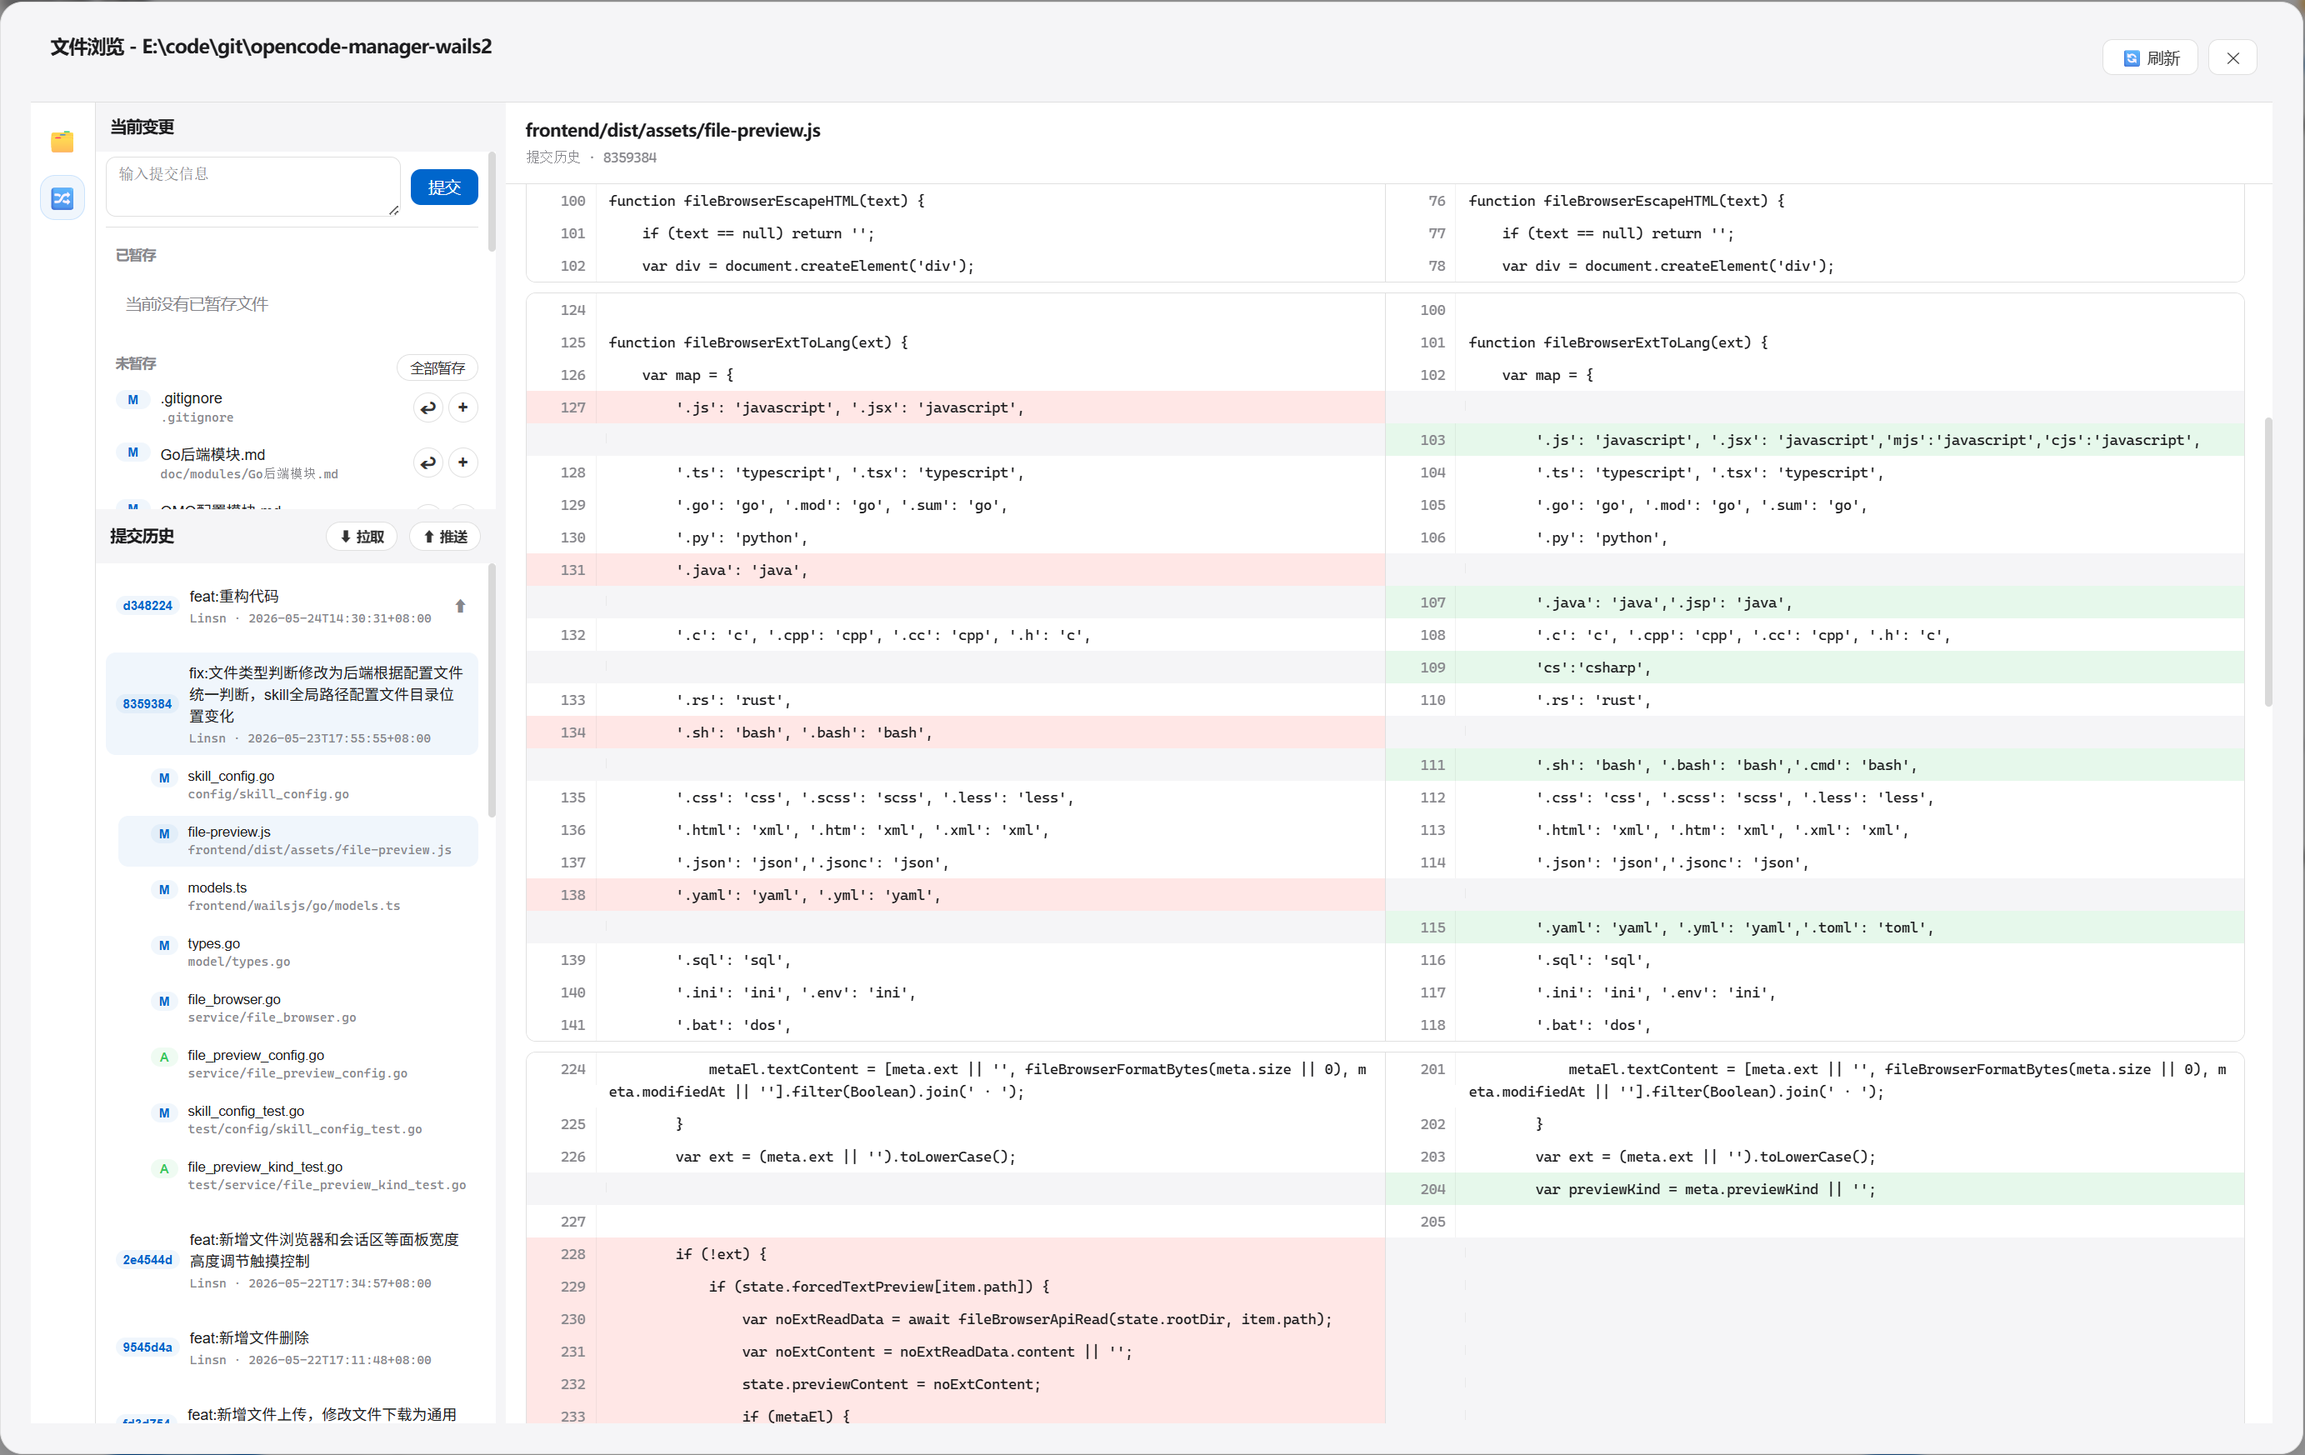
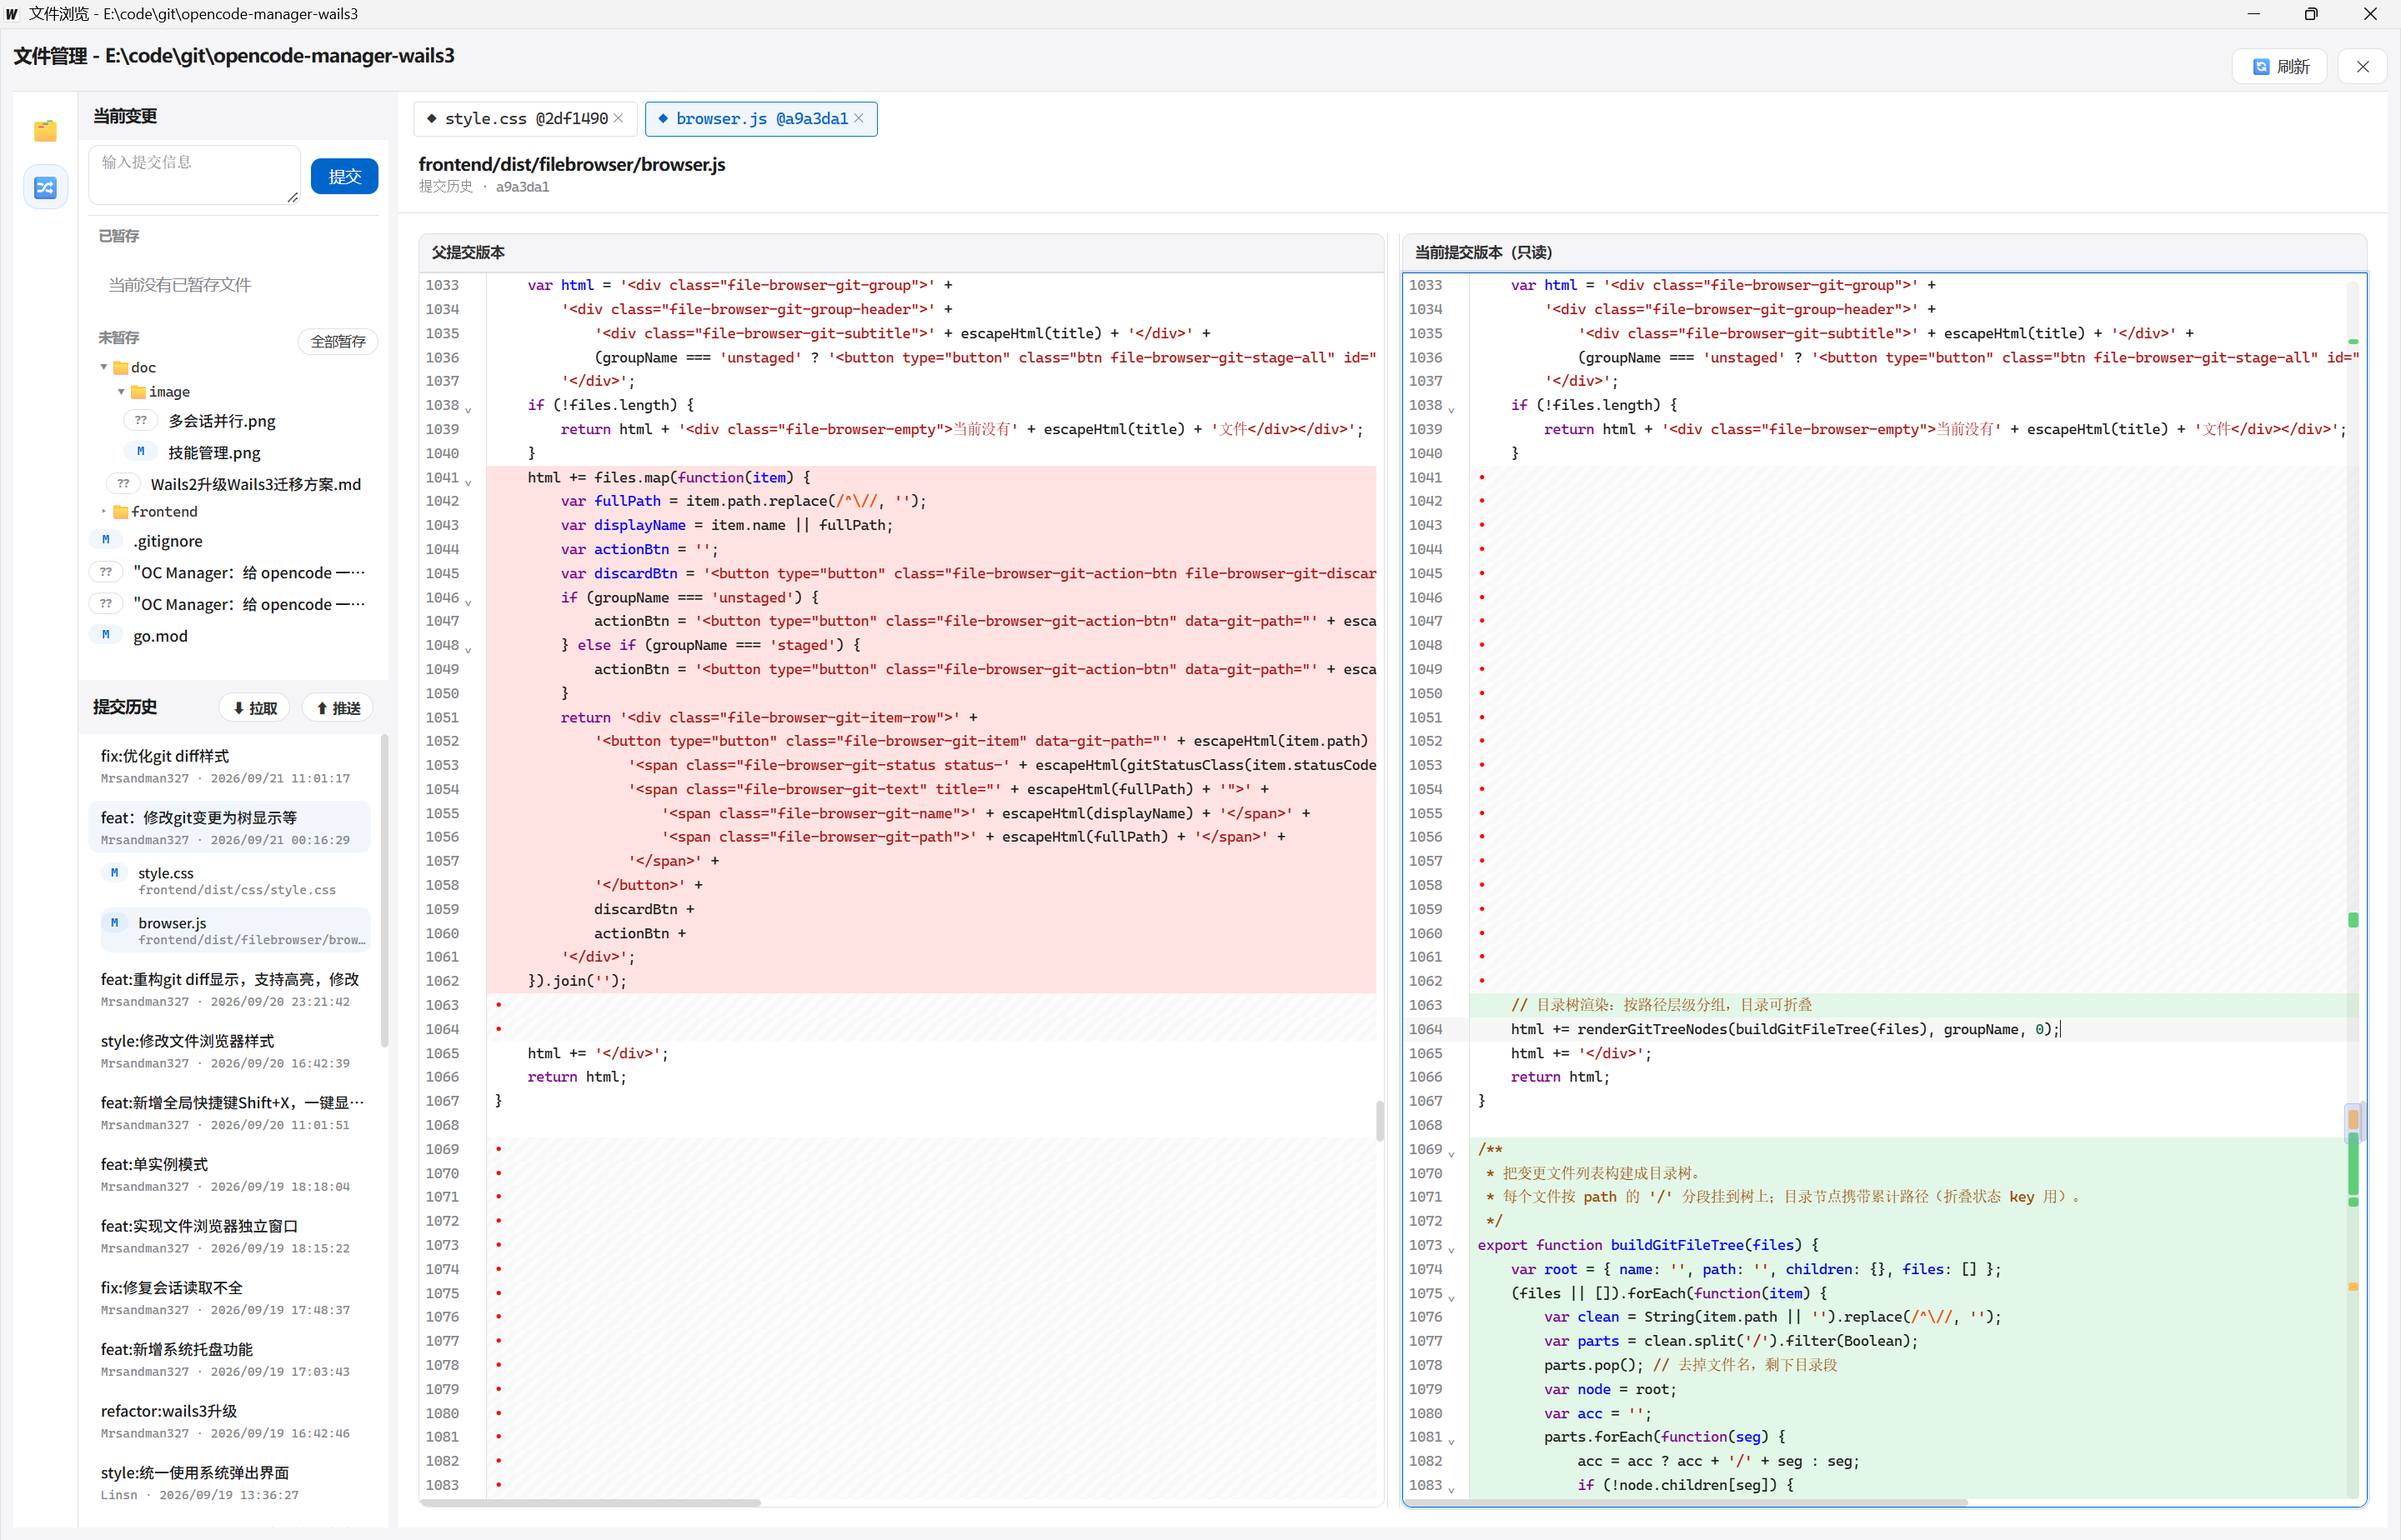
doc:更新readme

diff --git a/README.md b/README.md
@@ -4,7 +4,7 @@
 
 <p align="center">
   <img src="https://img.shields.io/badge/Go-1.25+-00ADD8?logo=go" />
-  <img src="https://img.shields.io/badge/Wails-v2.12-DF0000?logo=wails" />
+  <img src="https://img.shields.io/badge/Wails-v3.0.0--beta.23-DF0000?logo=wails" />
   <img src="https://img.shields.io/badge/三端-Windows%20|%20Web%20|%20Mobile-0066cc" />
   <img src="https://img.shields.io/badge/build-passing-brightgreen" />
 </p>
@@ -98,13 +98,17 @@ agent / category 粒度的模型映射，方案**导出·导入·入库·应用*
 
 | 🚀 功能 | 💡 说明 |
 |----------|---------|
+| **全局快捷键** | `Shift+X` 一键隐藏 / 显示主界面（与托盘行为一致）|
+| **系统托盘** | 点按托盘图标切换显示 / 隐藏，右键菜单快捷操作，关闭窗口即驻留托盘 |
+| **单实例运行** | 二次启动自动激活已有窗口，不重复开进程 |
+| **独立文件浏览器** | 桌面端原生多窗口 / Web 端新标签页打开，复用同一前端资源 |
 | **实时 SSE 事件流** | OpenCode 状态实时推送，服务健康一目了然 |
 | **多会话 Tab** | 桌面端支持同时打开多个会话，Tab 切换零卡顿，各会话独立渲染、独立滚动，关闭即释放内存 |
 | **版本检测** | 服务状态栏支持一键检查 OpenCode 是否有新版本，结果以 Toast 提示 |
 | **子任务面板** | 自动提取 task 工具触发的子任务，卡片式展示，点击查看详情 |
 | **代办事项** | 从会话中智能提取 TODO，进行中 / 已完成分组 |
 | **固定目录状态栏** | 右侧当前目录独立固定在底部，避免被上方卡片内容遮挡 |
-| **文件变更 Diff** | 目录树展示，左右对照式 diff 渲染，暂存/未暂存一目了然 |
+| **文件变更 Diff** | 可折叠目录树 + 左右对照 diff（语法高亮、右侧可编辑保存、滚动条 minimap 定位改动）|
 | **命令面板** | 常用 CLI/TUI 命令参考，支持搜索，`/` 键唤起 |
 | **知识库 @ 引用** | 备注、步骤、提示词集中沉淀，对话中输入 `@` 直接引用为独立上下文 |
 | **网络代理** | 代理配置一处搞定，Git 推送拉取自动走代理 |
@@ -153,19 +157,38 @@ agent / category 粒度的模型映射，方案**导出·导入·入库·应用*
 </p>
 </details>
 
+<details>
+<summary><b>知识库</b></summary>
+<p align="center">
+  <img src="./doc/image/知识库.png" width="48%" />
+  <img src="./doc/image/知识库-编辑.png" width="48%" />
+  <img src="./doc/image/知识库-调用.png" width="48%" />
+  <img src="./doc/image/知识库-转化.png" width="48%" />
+</p>
+</details>
+
+<details>
+<summary><b>三端 · Web / 手机</b></summary>
+<p align="center">
+  <img src="./doc/image/Web服务.png" width="48%" />
+  <img src="./doc/image/多会话并行.png" width="48%" />
+  <img src="./doc/image/手机-暗.png" width="28%" />
+  <img src="./doc/image/手机-浅.png" width="28%" />
+</p>
+</details>
+
 ---
 
 ## 🛠 构建
 
 ```bash
-wails dev          # 开发模式，热重载
-wails build        # 生产构建 → build/bin/oc-manager.exe（Linux 为 build/bin/oc-manager）
-go build ./...     # 仅编译 Go 后端
-go test ./...      # 运行测试
-go vet ./...       # 静态检查
+wails3 dev          # 开发模式（热重载）
+wails3 build        # 生产构建 → bin/oc-manager(.exe)
+go build .          # 仅编译 Go 后端（构建走 wails3；build/ 下为 wails 模板，故勿用 ./...）
+go vet ./internal/... ./model/... ./service/... ./config/...   # 静态检查（同上，避开 build/ 模板）
 ```
 
-> **前置条件**：Go 1.21+ · Wails CLI · Windows WebView2 / Linux WebKitGTK（`sudo apt install libgtk-3-dev libwebkit2gtk-4.0-dev pkg-config gcc`）
+> **前置条件**：Go 1.25+ · wails3 CLI · Windows WebView2 / Linux WebKitGTK（`sudo apt install libgtk-3-dev libwebkit2gtk-4.0-dev pkg-config gcc`）
 
 ---
 
